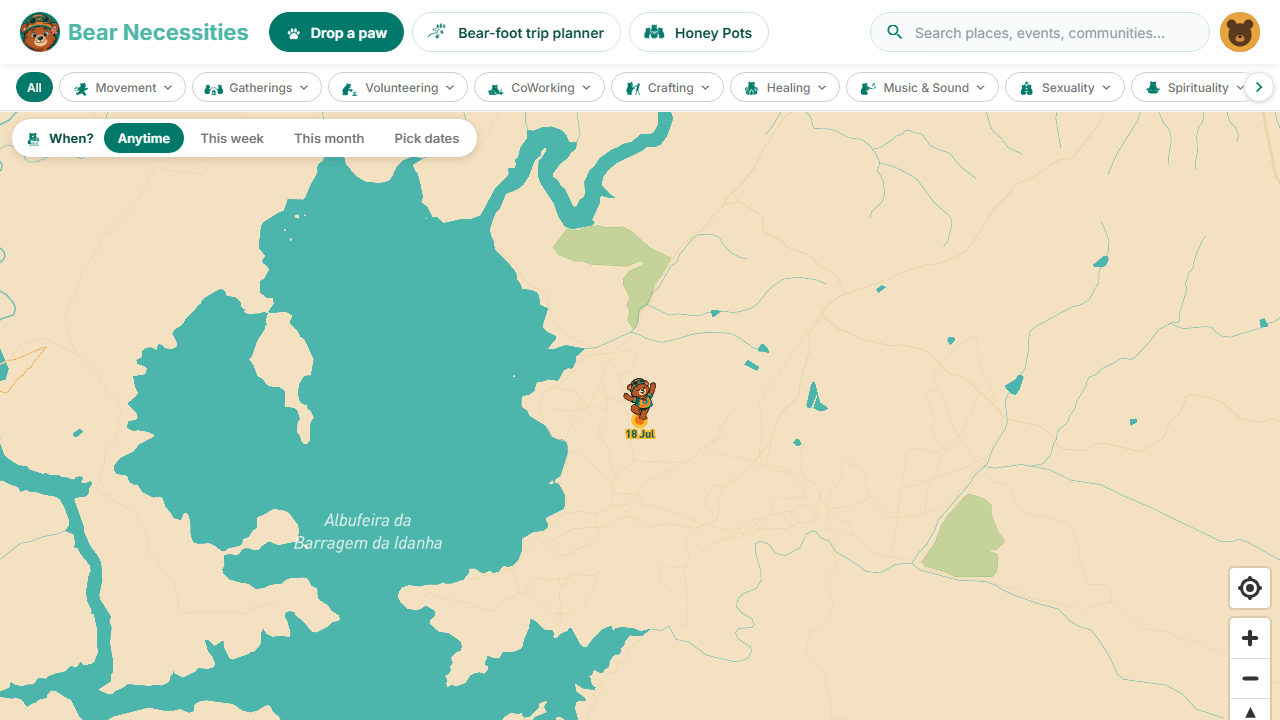
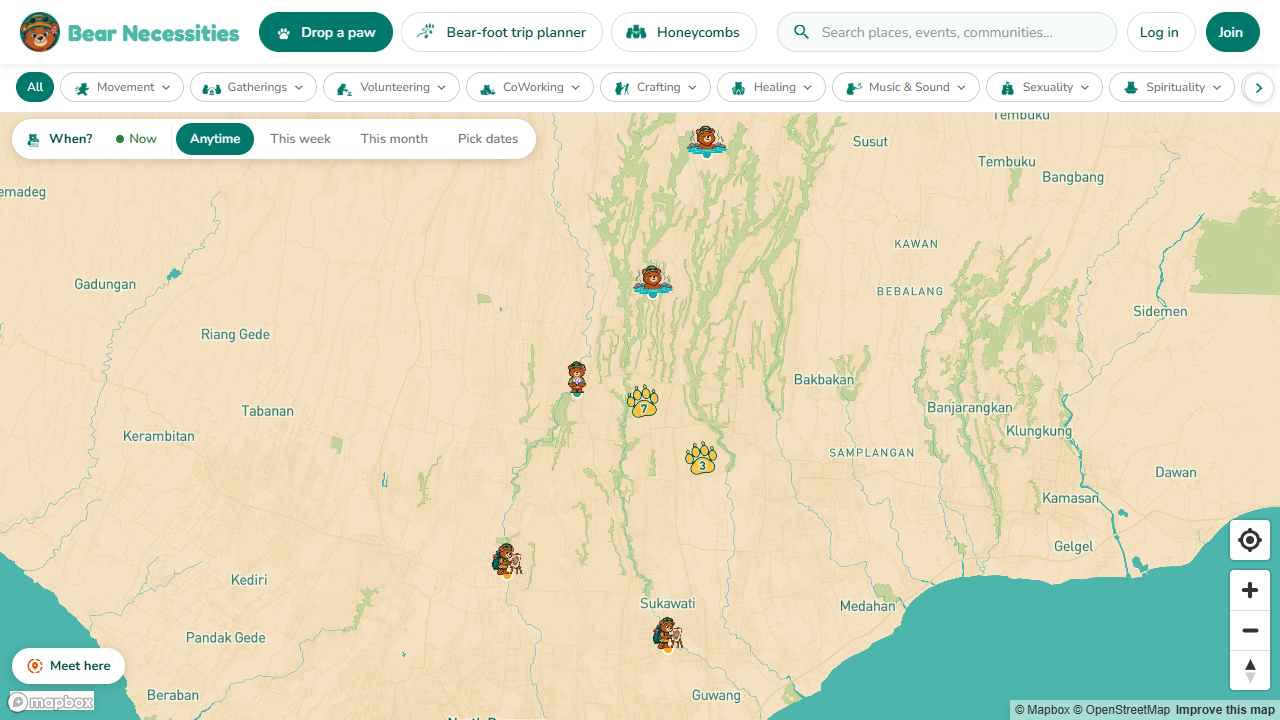
Communities are now Honeycombs; README screenshots retaken, with Happening now

diff --git a/bear-necessities-web/src/app/features/groups/groups.component.html b/bear-necessities-web/src/app/features/groups/groups.component.html
@@ -7,7 +7,7 @@
         <span class="material-icons">arrow_back</span>
       </button>
       <div class="header-text">
-        <h1><app-bear-icon name="community" [size]="34"></app-bear-icon> Honey Pots</h1>
+        <h1><app-bear-icon name="community" [size]="34"></app-bear-icon> Honeycombs</h1>
         <p>Local circles of conscious travelers — share tips, meet people, stay connected.</p>
       </div>
       <button class="create-btn" (click)="toggleCreate()">

diff --git a/bear-necessities-web/src/app/shared/components/navbar/navbar.component.html b/bear-necessities-web/src/app/shared/components/navbar/navbar.component.html
@@ -19,7 +19,7 @@
 
     <button class="nav-pill" (click)="navigateTo('/groups')" aria-label="Communities" title="Conscious communities">
       <app-bear-icon name="community" [size]="26"></app-bear-icon>
-      <span class="nav-label">Honey Pots</span>
+      <span class="nav-label">Honeycombs</span>
     </button>
   </div>
 

diff --git a/README.md b/README.md
@@ -6,7 +6,7 @@
 cacao ceremonies, hippie markets and festival grounds — wherever you land, find the places and gatherings
 that speak to you.
 
-![The map: festival grounds near Idanha-a-Nova with the next event's date on the pin](docs/screenshots/map.png)
+![The map around Ubud, Bali: bears for single places, honey paws for clusters](docs/screenshots/map.png)
 
 ## What it does
 
@@ -18,17 +18,20 @@ that speak to you.
   always open plus what's happening then, so festival grounds only appear while a festival is on.
 - **Happening now.** One tap shows what's on near you in the next few hours, and which places are
   open right now by their opening hours, in the place's own time zone.
+
+  ![Happening now in Ubud: places open right now, with closing time and distance](docs/screenshots/now.png)
+
 - **14 categories, 70+ subcategories**, each drawn as a bear (Movement, Healing, Music & Sound,
   Ceremonies…). Filtered matches pulse on the map, and a chip counts them worldwide with a jump to them.
 
-  ![Filtering by Retreat: the match pulses and a chip offers to fly there](docs/screenshots/filter.png)
+  ![Filtering by Retreat: matches pulse worldwide and a chip offers to fly there](docs/screenshots/filter.png)
 
 - **Community-built and moderated.** Anyone can add a place or event ("Drop a paw"), suggest an edit,
   share photos or attach them to a review. Everything from members waits in **Paw of Approval** — new
   listings, suggested edits (shown field by field, now vs. suggested), photos and new members — while
   admins' own changes go live straight away.
 
-  ![A place page with the community gallery and a review with a photo](docs/screenshots/place.png)
+  ![A place page with its photos, directions and reviews](docs/screenshots/place.png)
   ![Paw of Approval: member photos waiting for review](docs/screenshots/approvals.png)
 
 - **Photos with credit.** Places without their own photos get a freely licensed one from Wikimedia
